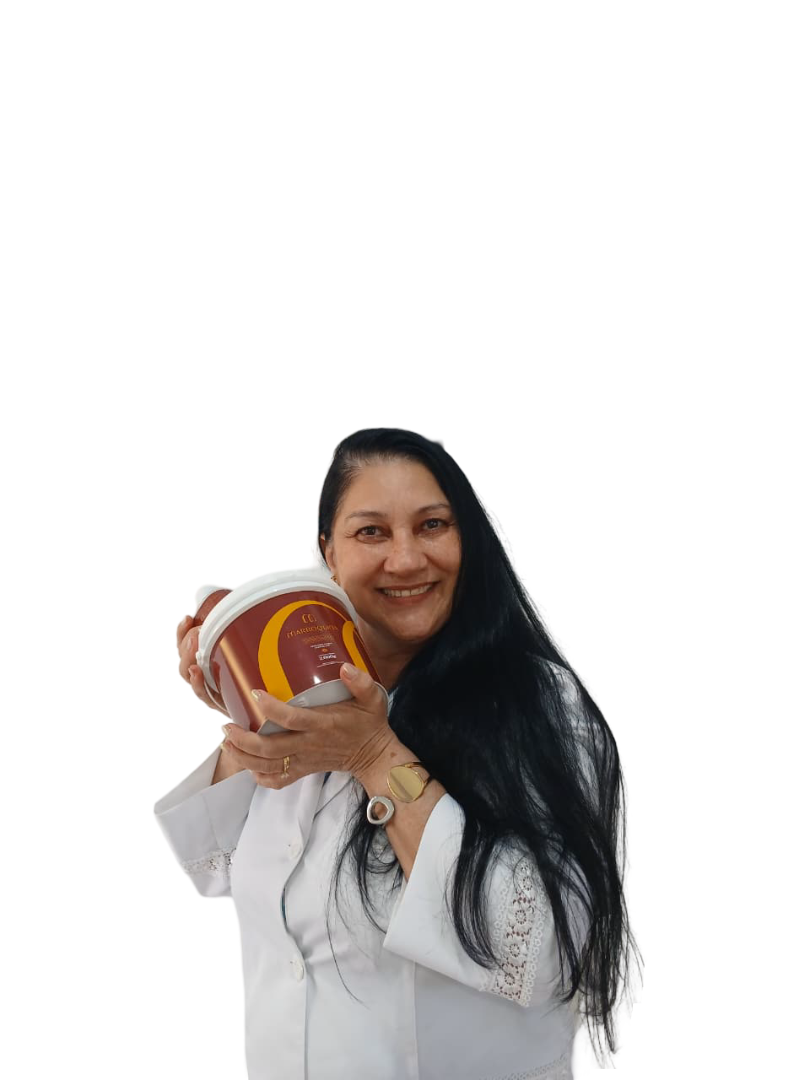
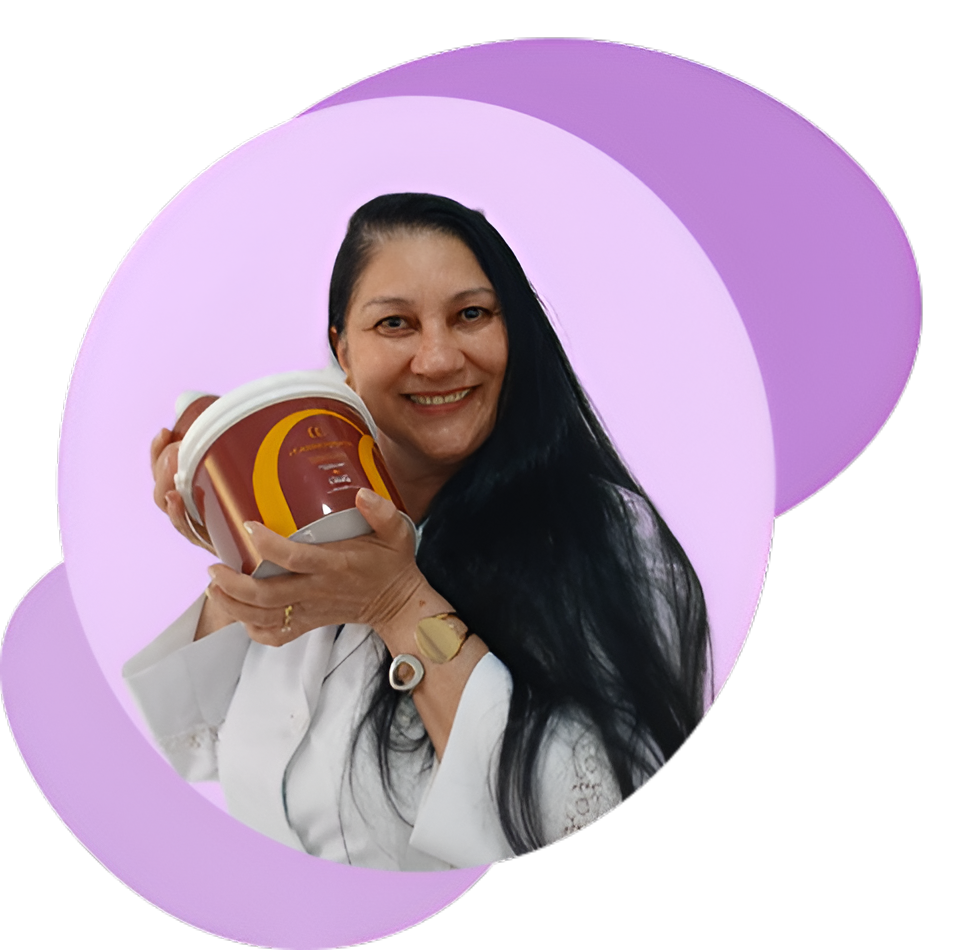
Funcionalidade: Adição de módulos CSS para os componentes Horários, Local e Barra de Navegação
- Adição do arquivo horario.module.css com estilos de layout para os cards e botões de ação do componente Horários
- Adição do arquivo local.module.css com estilos para o contêiner e o iframe do mapa do componente Local
- Adição do arquivo navbar.module.css para gerenciar o z-index da Barra de Navegação e do conteúdo

diff --git a/src/components/sections/Horarios.tsx b/src/components/sections/Horarios.tsx
@@ -1,25 +1,26 @@
 "use client";
 import Link from "next/link";
+import styles from '../styles/Horario/horario.module.css';
 
 export default function Horarios(){
     return (
-        <div>
-            <h2 className="titulo-txt-rosa">HORÁRIOS DE ATENDIMENTO</h2>
+        <div className={`${styles.containerHorarios}`}>
+            <h2 className={`${styles.titulo} titulo-txt-rosa`}>HORÁRIOS DE ATENDIMENTO</h2>
 
-            <div className="card-horarios">
-                <div className="dia-semana">
+            <div className={`${styles.cardHorarios}`}>
+                <div className={`${styles.diaSemana}`}>
                     <p>Segunda a Sexta</p>
                     <p>Sábado</p>
                     <p>Domingo</p>
                 </div>
-                <div className="horario-funcionamento">
+                <div className={`${styles.horarioFuncionamento}`}>
                     <p>11 às 20h</p>
                     <p>11 às 20h</p>
                     <p>Fechado</p>
                 </div>
             </div>
 
-            <Link href={"#link-contato"} className="background-rosa-claro txt-white">
+            <Link href={"#link-contato"} className={`${styles.botaoAgendar} background-rosa-claro txt-white`}>
                 Quero Agendar
             </Link>
         </div>

diff --git a/src/components/sections/Testimonials.tsx b/src/components/sections/Testimonials.tsx
@@ -3,7 +3,7 @@ import Image from "next/image";
 import styles from '../styles/Testimonials/Testimonials.module.css';
 import Imagem3 from '../../../public/imagem3.png';
 import BlobMenor from '../../../public/BlocoImg/blob.svg';
-import BlobMariaDepill from '../../../public/BlocoImg/blobMariaDepill1.svg';
+import BlobMariaDepill from '../../../public/BlocoImg/blobMariaDepill1.png';
 import { useState, useEffect } from "react";
 
 export default function Testimonials(){
@@ -24,13 +24,9 @@ export default function Testimonials(){
                         <div className="elfsight-app-fa5b312d-c040-4342-86ed-8676356dc967" data-elfsight-app-lazy>
                         </div>
                     </div>
-                    
-                    <div className={styles['paleta-decoration']}>
-                        <Image className={styles.mariaDepill} src={Imagem3} alt="Blob maior"/>
+                </div>
+                <div className={styles['paleta-decoration']}>
                         <Image className={styles.blobMaior} src={BlobMariaDepill} alt="Blob maior"/>
-                    </div>
-
-                    
                 </div>
             </div>
         </div>

diff --git a/src/components/sections/Local.tsx b/src/components/sections/Local.tsx
@@ -1,12 +1,13 @@
 "use client";
+import style from '../styles/Local/local.module.css';
 
 export default function Local(){
     return (
-        <div>
+        <div className={`${style.containerLocal}`}>
             <h2 className="titulo-txt-rosa">LOCALIZAÇÃO</h2>
             <p className="txt-roxo-claro">Veja onde estamos localizados e como chegar</p>
 
-            <iframe src="https://www.google.com/maps/embed?pb=!1m18!1m12!1m3!1d15478.538099344245!2d-50.3389692462728!3d-14.098739065486336!2m3!1f0!2f0!3f0!3m2!1i1024!2i768!4f13.1!3m3!1m2!1s0x9369f51b1ab7567f%3A0x4c0b39e61bbff35c!2sMaria%20Depill!5e0!3m2!1spt-BR!2sbr!4v1769010822224!5m2!1spt-BR!2sbr" width="600" height="450" loading="lazy" referrerPolicy="no-referrer-when-downgrade" ></iframe>
+            <iframe src="https://www.google.com/maps/embed?pb=!1m18!1m12!1m3!1d15478.538099344245!2d-50.3389692462728!3d-14.098739065486336!2m3!1f0!2f0!3f0!3m2!1i1024!2i768!4f13.1!3m3!1m2!1s0x9369f51b1ab7567f%3A0x4c0b39e61bbff35c!2sMaria%20Depill!5e0!3m2!1spt-BR!2sbr!4v1769010822224!5m2!1spt-BR!2sbr" loading="lazy" referrerPolicy="no-referrer-when-downgrade" className={`${style.mapIframe}`}></iframe>
         </div>
     )
 }

diff --git a/src/components/sections/NavBar.tsx b/src/components/sections/NavBar.tsx
@@ -3,6 +3,7 @@ import Link from "next/link";
 import Image from "next/image";
 import Logo from '../../../public/logo.png';
 import IconeWhatsapp from '../../../public/icone-whatsapp.png';
+import styles from "../styles/NavBar/navbar.module.css";
 import { BiAdjust } from "react-icons/bi";
 import { useState } from "react";
 
@@ -22,8 +23,8 @@ export default function NavBar() {
   const [alterarModoParaRoxo, setAlterarModoParaRoxo] = useState(false);
 
   return (
-    <nav className="fixed top-2 inset-x-0 z-50 flex justify-center px-2">
-      <div className=" w-full flex items-center justify-between bg-offwhite shadow-lg rounded-2xl">
+    <nav className={`${styles.navBar} fixed top-2 inset-x-0 z-50 flex justify-center px-2`}>
+      <div className={`${styles.navContent} w-full flex items-center justify-between bg-offwhite shadow-lg rounded-2xl`}>
         
         <Image className="flex background-rosa-escuro m-1 rounded-full w-18 h-18" src={Logo} alt="Logo" />
         

diff --git a/src/components/styles/Testimonials/Testimonials.module.css b/src/components/styles/Testimonials/Testimonials.module.css
@@ -2,13 +2,15 @@
     position: relative;
     width: 100%;
     max-width: 1024px !important;
-    margin: 10% auto;
+    margin: 5% auto;
     display: flex;
     flex-direction: column;
     justify-content: center;
+    gap: 20px;
 }
 
 .wrapper{
+    position: relative;
     margin-top: 20px auto;
     width: 100%;
     max-width: 1024px;
@@ -41,6 +43,8 @@
 
 .depoimento-item{
     position: relative;
+    margin-top: 45px;
+    margin-right: 40%;
 }
 
 .containerRemove{
@@ -72,25 +76,16 @@
 
 .blobMaior{
     width: 100%;
-    max-width: 400px;
+    max-width: 500px;
     height: auto;
     z-index: -1;
 }
 
 .paleta-decoration{
+    position: absolute;
+    right: -50%;
+    top: -10%;
     width: 100%;
-    max-width: 300px;
     height: auto;
     max-height: 300px;
-}
-
-.mariaDepill{
-    position: absolute;
-    top: 50%;
-    right: 2%;
-    transform: translate(-50%, -50%);
-    width: 100%;
-    max-width: 200px;
-    height: auto;
-    z-index: 1;
 }

diff --git a/src/components/styles/Horario/horario.module.css b/src/components/styles/Horario/horario.module.css
@@ -1,0 +1,52 @@
+.containerHorarios{
+    margin: 40px auto;
+    width: 100%;
+    max-width: 1024px;
+    padding: 0 20px;
+    display: flex;
+    flex-direction: column;
+    align-items: center;
+    justify-content: center;
+    gap: 20px;
+}
+
+.titulo{
+    text-align: center;
+    margin-top: 20px;
+}
+
+.cardHorarios{
+    width: 100%;
+    max-width: 450px !important;
+    padding: 20px;
+    height: auto;
+    max-height: 189px;
+    border-radius: 35px;
+    box-shadow: 0px 6px 10px #A59DD4;
+    display: flex;
+    justify-content: space-around;
+    gap: 10px;
+    align-items: center;
+}
+
+.diaSemana{
+    display: flex;
+    flex-direction: column;
+    gap: 15px;
+    color: #7A3998;
+}
+
+.horarioFuncionamento{
+    display: flex;
+    flex-direction: column;
+    gap: 15px;
+    color: #7A3998;
+}
+
+.botaoAgendar{
+    margin-top: 20px;
+    padding: 15px 30px;
+    border-radius: 30px;
+    font-weight: bold;
+    text-decoration: none;
+}

diff --git a/src/components/styles/Style-About/about.module.css b/src/components/styles/Style-About/about.module.css
@@ -26,11 +26,12 @@
 
 .imagemContainer {
     position: relative;
-    width: 50%;
+    width: 100%;
+    max-width: 50%;
     display: flex;
     align-items: center;
     justify-content: center;
-    height: 450px;
+    height: auto;
 }
 
 
@@ -62,10 +63,9 @@
     position: relative;
     z-index: 2;
     border-radius: 50%;
-    width: 280px !important;
-    height: 280px !important;
+    width: 100%;
+    height: auto;
     object-fit: cover;
-    background-color: #EACCF8;
     padding: 10px;
 }
 

diff --git a/src/components/sections/About.tsx b/src/components/sections/About.tsx
@@ -16,8 +16,6 @@ export default function  About(){
             </div>
 
             <div className={styles.imagemContainer}>
-                <div className={styles.blobRoxo}></div>
-                <div className= {styles.blobRosaClaro}></div>
                 <Image src={segundaImagem} alt="Imagem da cera de depilação" className={styles.imagem}/>
             </div>
         </div>

diff --git a/src/components/styles/Local/local.module.css b/src/components/styles/Local/local.module.css
@@ -1,0 +1,17 @@
+.containerLocal{
+    width: 100%;
+    max-width: 1024px;
+    margin: 0 auto;
+    display: flex;
+    flex-direction: column;
+    align-items: center;
+    justify-content: center;
+    gap: 15px;
+}
+
+.mapIframe{
+    width: 100%;
+    max-width: 800px;
+    height: 500px;
+    border-radius: 15px;
+}

diff --git a/src/components/styles/NavBar/navbar.module.css b/src/components/styles/NavBar/navbar.module.css
@@ -1,0 +1,7 @@
+.navBar{
+    z-index: 1101 !important;
+}
+
+.navContent{
+    z-index: 1101 !important;
+}
